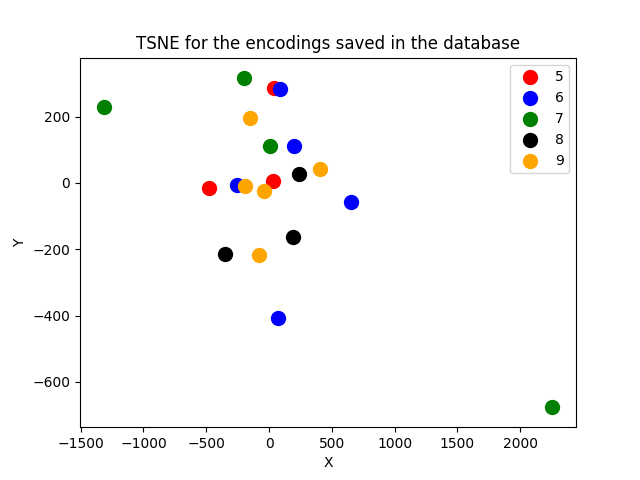
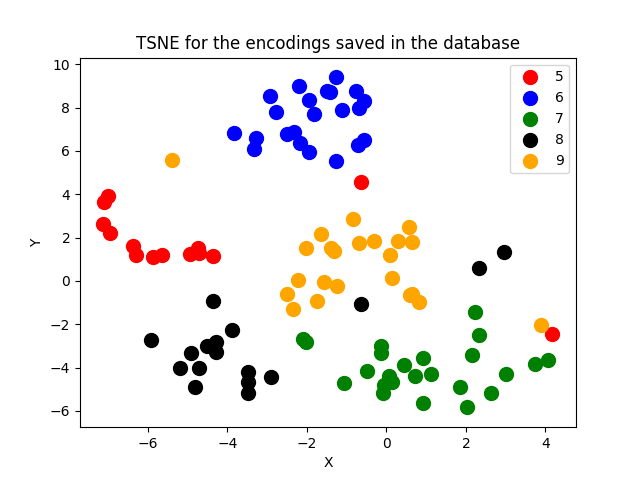
Refactoring

diff --git a/ObjectRecognition/Multi-Shot/t_sne.py b/ObjectRecognition/Multi-Shot/t_sne.py
@@ -16,7 +16,7 @@ def t_sne():
     n_components = 3
 
     x = (matrix_encodings - np.mean(matrix_encodings, 0)) / np.std(matrix_encodings, 0)
-    tsne = TSNE(n_components)
+    tsne = TSNE(n_components, init='pca', random_state=0)
     x_r = tsne.fit_transform(x)
     return x_r, labels
 
@@ -54,30 +54,5 @@ def plot3D(data, labels):
     plt.savefig("figures/tsne_current_encodings_3D")
     plt.show()
 
-def plot2D(data, labels):
-    """
-    Plots PCA with Labels
-
-    :param data: PCA Data
-    :param labels: Labels
-    """
-    scatter_x = data[:, 0]
-    scatter_y = data[:, 1]
-    scatter_z = data[:, 2]
-    group = map(int, labels)
-    cdict = {5: 'red', 6: 'blue', 7: 'green', 8: 'black', 9: 'orange'}
-
-    ax = plt.axes()
-    for g in np.unique(group):
-        ix = np.where(group == g)
-        ax.scatter(scatter_x[ix], scatter_y[ix], c=cdict[g], label=g, s=100)
-    ax.legend()
-    plt.title("TSNE for the encodings saved in the database")
-    plt.xlabel("X")
-    plt.ylabel("Y")
-    plt.savefig("figures/tsne_current_encodings_2D")
-    plt.show()
-
 pca_data, db_labels = t_sne()
 plot3D(pca_data, db_labels)
-plot2D(pca_data, db_labels)

diff --git a/ObjectRecognition/Multi-Shot/em_algorithm_for_our_dataset.py b/ObjectRecognition/Multi-Shot/em_algorithm_for_our_dataset.py
@@ -22,7 +22,7 @@ data = pca.fit(x).transform(x)
 N, D = data.shape
 
 ## Initialize parameters
-K = 5; # try with different parameters
+K = 5; # clusters
 mu = []
 Sigma = []
 pi_k = np.ones(K)/K
@@ -33,18 +33,16 @@ for _ in range(K):
   Sigma.append(np.eye(D))
 
 ## Loop until you're happy
-max_iter = 3; # XXX: you should find a better convergence check than a max iteration counter
+max_iter = 3;
 log_likelihood = np.zeros(max_iter)
 respons = np.zeros((K, N)) # KxN
 for iteration in range(max_iter):
   ## Compute responsibilities
-  # XXX: FILL ME IN!
   for k in range(K):
     respons[k] = pi_k[k] * multivariate_normal.pdf(data, mean=mu[k], cov=Sigma[k])
   respons /= np.sum(respons, axis=0)
 
   ## Update parameters
-  # XXX: FILL ME IN!
   for k in range(K):
       respons_k = respons[k]  # N
       Nk = np.sum(respons_k)  # scalar
@@ -54,7 +52,6 @@ for iteration in range(max_iter):
       pi_k[k] = Nk / N
 
   ## Compute log-likelihood of data
-  # log_likelihood[iteration] = -1 # XXX: DO THIS CORRECTLY
   L = 0
   for k in range(K):
       L += pi_k[k] * multivariate_normal.pdf(data, mean=mu[k], cov=Sigma[k])

diff --git a/ObjectRecognition/Multi-Shot/pca.py b/ObjectRecognition/Multi-Shot/pca.py
@@ -67,31 +67,6 @@ def plot3D(data, labels):
     plt.savefig("figures/pca_current_encodings_3D")
     plt.show()
 
-def plot2D(data, labels):
-    """
-    Plots PCA with Labels
-
-    :param data: PCA Data
-    :param labels: Labels
-    """
-    scatter_x = data[:, 0]
-    scatter_y = data[:, 1]
-    scatter_z = data[:, 2]
-    group = map(int, labels)
-    cdict = {5: 'red', 6: 'blue', 7: 'green', 8: 'black', 9: 'orange'}
-
-    ax = plt.axes()
-    for g in np.unique(group):
-        ix = np.where(group == g)
-        ax.scatter(scatter_x[ix], scatter_y[ix], c=cdict[g], label=g, s=100)
-    ax.legend()
-    plt.title("PCA for the encodings saved in the database")
-    plt.xlabel("X")
-    plt.ylabel("Y")
-    plt.savefig("figures/pca_current_encodings_2D")
-    plt.show()
-
-# pca_data, db_labels = pca()
-# plot3D(pca_data, db_labels)
-# plot2D(pca_data, db_labels)
+pca_data, db_labels = pca()
+plot3D(pca_data, db_labels)
 
